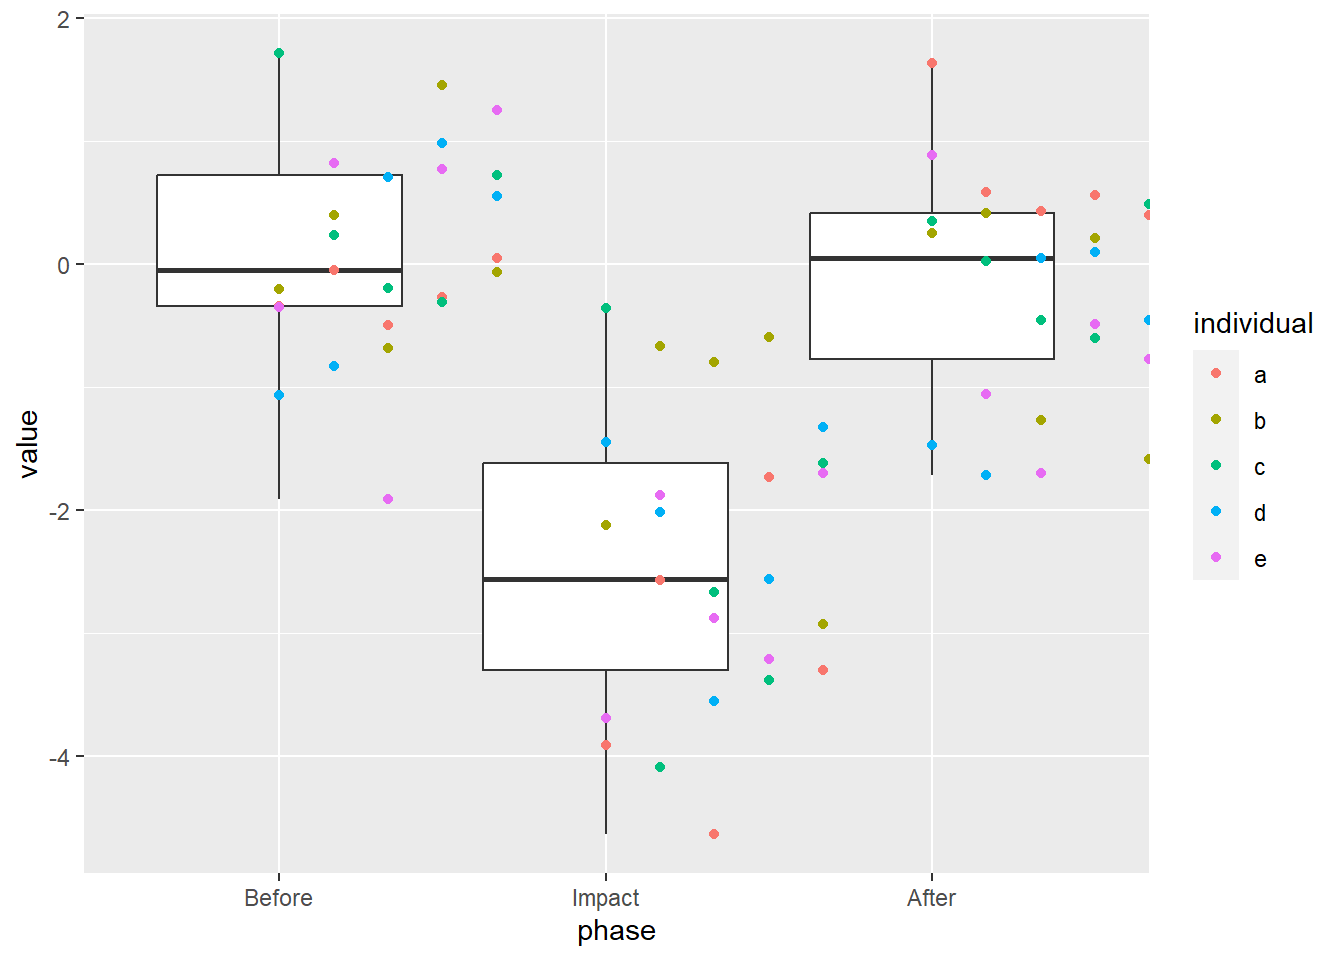
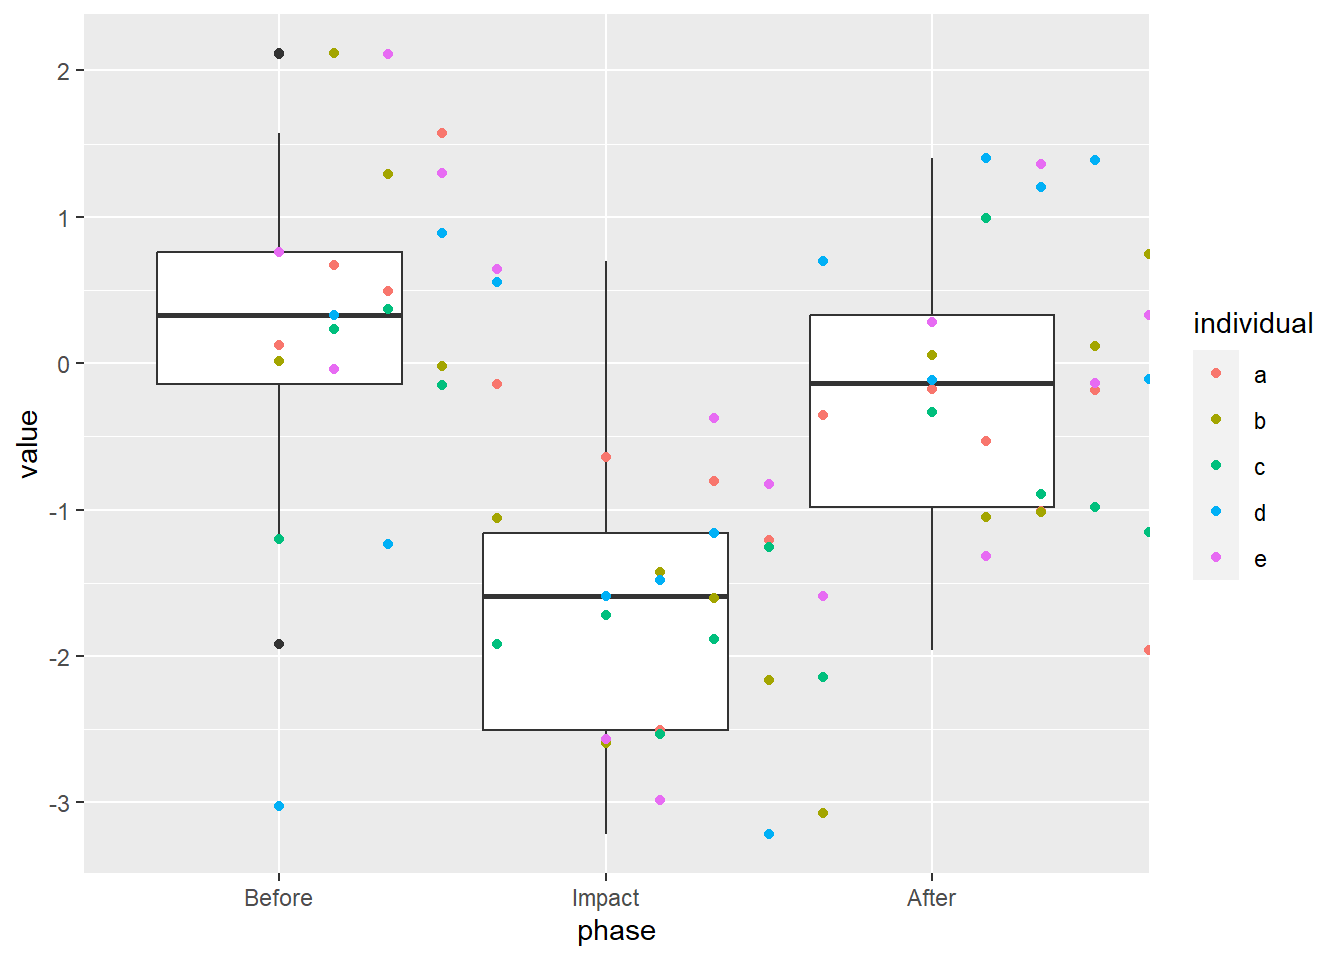
Built site for gh-pages

diff --git a/blog/2023/05_25_time_series_box_plot/index.html b/blog/2023/05_25_time_series_box_plot/index.html
@@ -271,18 +271,18 @@ Attaching package: 'dplyr'</code></pre>
 <div class="cell-output cell-output-stdout">
 <pre><code># A tibble: 75 × 4
 # Rowwise: 
-   individual time                phase    value
-   &lt;chr&gt;      &lt;dttm&gt;              &lt;ord&gt;    &lt;dbl&gt;
- 1 a          2020-02-03 12:00:00 Before -0.341 
- 2 a          2020-02-03 12:01:00 Before -0.0483
- 3 a          2020-02-03 12:02:00 Before -0.500 
- 4 a          2020-02-03 12:03:00 Before -0.273 
- 5 a          2020-02-03 12:04:00 Before  0.0460
- 6 a          2020-02-03 12:05:00 Impact -3.91  
- 7 a          2020-02-03 12:06:00 Impact -2.57  
- 8 a          2020-02-03 12:07:00 Impact -4.64  
- 9 a          2020-02-03 12:08:00 Impact -1.73  
-10 a          2020-02-03 12:09:00 Impact -3.30  
+   individual time                phase   value
+   &lt;chr&gt;      &lt;dttm&gt;              &lt;ord&gt;   &lt;dbl&gt;
+ 1 a          2020-02-03 12:00:00 Before  0.125
+ 2 a          2020-02-03 12:01:00 Before  0.670
+ 3 a          2020-02-03 12:02:00 Before  0.494
+ 4 a          2020-02-03 12:03:00 Before  1.57 
+ 5 a          2020-02-03 12:04:00 Before -0.143
+ 6 a          2020-02-03 12:05:00 Impact -0.643
+ 7 a          2020-02-03 12:06:00 Impact -2.50 
+ 8 a          2020-02-03 12:07:00 Impact -0.807
+ 9 a          2020-02-03 12:08:00 Impact -1.20 
+10 a          2020-02-03 12:09:00 Impact -0.351
 # ℹ 65 more rows</code></pre>
 </div>
 </div>
@@ -326,16 +326,16 @@ Attaching package: 'dplyr'</code></pre>
 <pre><code># A tibble: 75 × 6
    phase  time.start   time.end individual       time   value
    &lt;ord&gt;       &lt;dbl&gt;      &lt;dbl&gt; &lt;chr&gt;           &lt;dbl&gt;   &lt;dbl&gt;
- 1 Before 1580731200 1580731440 a          1580731200 -0.341 
- 2 Before 1580731200 1580731440 a          1580731260 -0.0483
- 3 Before 1580731200 1580731440 a          1580731320 -0.500 
- 4 Before 1580731200 1580731440 a          1580731380 -0.273 
- 5 Before 1580731200 1580731440 a          1580731440  0.0460
- 6 Before 1580731200 1580731440 b          1580731200 -0.205 
- 7 Before 1580731200 1580731440 b          1580731260  0.396 
- 8 Before 1580731200 1580731440 b          1580731320 -0.684 
- 9 Before 1580731200 1580731440 b          1580731380  1.45  
-10 Before 1580731200 1580731440 b          1580731440 -0.0717
+ 1 Before 1580731200 1580731440 a          1580731200  0.125 
+ 2 Before 1580731200 1580731440 a          1580731260  0.670 
+ 3 Before 1580731200 1580731440 a          1580731320  0.494 
+ 4 Before 1580731200 1580731440 a          1580731380  1.57  
+ 5 Before 1580731200 1580731440 a          1580731440 -0.143 
+ 6 Before 1580731200 1580731440 b          1580731200  0.0150
+ 7 Before 1580731200 1580731440 b          1580731260  2.12  
+ 8 Before 1580731200 1580731440 b          1580731320  1.29  
+ 9 Before 1580731200 1580731440 b          1580731380 -0.0180
+10 Before 1580731200 1580731440 b          1580731440 -1.05  
 # ℹ 65 more rows</code></pre>
 </div>
 </div>
@@ -419,7 +419,7 @@ Attaching package: 'dplyr'</code></pre>
 </div>
 </div>
 <p>The points are where they’re supposed to be, now we just have to connect them! Remember that the lines have to be nudged, too, so we need to provide the exact same arguments to <code>geom_line</code> as we did to <code>geom_point</code>.</p>
-<div class="cell">
+<div class="cell preview-image">
 <div class="sourceCode cell-code" id="cb20"><pre class="sourceCode r code-with-copy"><code class="sourceCode r"><span id="cb20-1"><a href="#cb20-1" aria-hidden="true" tabindex="-1"></a><span class="fu">ggplot</span>(<span class="at">data =</span> my_data, <span class="fu">aes</span>(<span class="at">x =</span> phase, <span class="at">y =</span> value)) <span class="sc">+</span></span>
 <span id="cb20-2"><a href="#cb20-2" aria-hidden="true" tabindex="-1"></a>  <span class="fu">geom_boxplot</span>() <span class="sc">+</span></span>
 <span id="cb20-3"><a href="#cb20-3" aria-hidden="true" tabindex="-1"></a>  <span class="fu">geom_point</span>(<span class="fu">aes</span>(<span class="at">color =</span> individual),</span>

diff --git a/blog/2023/01_23_henrico_parcels/index.html b/blog/2023/01_23_henrico_parcels/index.html
@@ -211,7 +211,7 @@ pre > code.sourceCode > span > a:first-child::before { text-decoration: underlin
 </header>
 
 <p>A recent tweet showed the age of the buildings in Groningen, Netherlands super-imposed on LiDAR data for some perspective.</p>
-<p></p><div id="tweet-79704"></div><script>tweet={"url":"https:\/\/twitter.com\/neilcfd1\/status\/1560616470148575233","author_name":"Neil Southall","author_url":"https:\/\/twitter.com\/neilcfd1","html":"\u003Cblockquote class=\"twitter-tweet\" align=\"center\"\u003E\u003Cp lang=\"en\" dir=\"ltr\"\u003EHaven&#39;t done a Building Age render for a while - here is Groningen, Netherlands\u003Cbr\u003EBuilding age data \u003Ca href=\"https:\/\/twitter.com\/INSPIRE_EU?ref_src=twsrc%5Etfw\"\u003E@INSPIRE_EU\u003C\/a\u003E \u003Ca href=\"https:\/\/twitter.com\/Het_Kadaster?ref_src=twsrc%5Etfw\"\u003E@Het_Kadaster\u003C\/a\u003E overlaid on LiDAR height data (from \u003Ca href=\"https:\/\/t.co\/Sm0VEFXOXs\"\u003Ehttps:\/\/t.co\/Sm0VEFXOXs\u003C\/a\u003E).  Rendered in \u003Ca href=\"https:\/\/twitter.com\/hashtag\/rayshader?src=hash&amp;ref_src=twsrc%5Etfw\"\u003E#rayshader\u003C\/a\u003E \u003Ca href=\"https:\/\/twitter.com\/hashtag\/rstats?src=hash&amp;ref_src=twsrc%5Etfw\"\u003E#rstats\u003C\/a\u003E \u003Ca href=\"https:\/\/t.co\/CElUxvn1W6\"\u003Epic.twitter.com\/CElUxvn1W6\u003C\/a\u003E\u003C\/p\u003E&mdash; Neil Southall (@neilcfd1) \u003Ca href=\"https:\/\/twitter.com\/neilcfd1\/status\/1560616470148575233?ref_src=twsrc%5Etfw\"\u003EAugust 19, 2022\u003C\/a\u003E\u003C\/blockquote\u003E\n\u003Cscript async src=\"https:\/\/platform.twitter.com\/widgets.js\" charset=\"utf-8\"\u003E\u003C\/script\u003E\n","width":550,"height":null,"type":"rich","cache_age":"3153600000","provider_name":"Twitter","provider_url":"https:\/\/twitter.com","version":"1.0"};document.getElementById("tweet-79704").innerHTML = tweet["html"];</script><p></p>
+<p></p><div id="tweet-43388"></div><script>tweet={"url":"https:\/\/twitter.com\/neilcfd1\/status\/1560616470148575233","author_name":"Neil Southall","author_url":"https:\/\/twitter.com\/neilcfd1","html":"\u003Cblockquote class=\"twitter-tweet\" align=\"center\"\u003E\u003Cp lang=\"en\" dir=\"ltr\"\u003EHaven&#39;t done a Building Age render for a while - here is Groningen, Netherlands\u003Cbr\u003EBuilding age data \u003Ca href=\"https:\/\/twitter.com\/INSPIRE_EU?ref_src=twsrc%5Etfw\"\u003E@INSPIRE_EU\u003C\/a\u003E \u003Ca href=\"https:\/\/twitter.com\/Het_Kadaster?ref_src=twsrc%5Etfw\"\u003E@Het_Kadaster\u003C\/a\u003E overlaid on LiDAR height data (from \u003Ca href=\"https:\/\/t.co\/Sm0VEFXOXs\"\u003Ehttps:\/\/t.co\/Sm0VEFXOXs\u003C\/a\u003E).  Rendered in \u003Ca href=\"https:\/\/twitter.com\/hashtag\/rayshader?src=hash&amp;ref_src=twsrc%5Etfw\"\u003E#rayshader\u003C\/a\u003E \u003Ca href=\"https:\/\/twitter.com\/hashtag\/rstats?src=hash&amp;ref_src=twsrc%5Etfw\"\u003E#rstats\u003C\/a\u003E \u003Ca href=\"https:\/\/t.co\/CElUxvn1W6\"\u003Epic.twitter.com\/CElUxvn1W6\u003C\/a\u003E\u003C\/p\u003E&mdash; Neil Southall (@neilcfd1) \u003Ca href=\"https:\/\/twitter.com\/neilcfd1\/status\/1560616470148575233?ref_src=twsrc%5Etfw\"\u003EAugust 19, 2022\u003C\/a\u003E\u003C\/blockquote\u003E\n\u003Cscript async src=\"https:\/\/platform.twitter.com\/widgets.js\" charset=\"utf-8\"\u003E\u003C\/script\u003E\n","width":550,"height":null,"type":"rich","cache_age":"3153600000","provider_name":"Twitter","provider_url":"https:\/\/twitter.com","version":"1.0"};document.getElementById("tweet-43388").innerHTML = tweet["html"];</script><p></p>
 <p>This got me thinking – what would Henrico look like? I’m going to take the cheap way out and not mess with LiDAR at the moment, but the county provides their <a href="https://data-henrico.opendata.arcgis.com/datasets/Henrico::tax-parcels-and-cama-data/explore">Tax Parcels and CAMA Data</a> for easy download.</p>
 <div class="callout callout-style-default callout-note callout-titled">
 <div class="callout-header d-flex align-content-center">

diff --git a/blog/index.html b/blog/index.html
@@ -190,9 +190,9 @@ ul.task-list li input[type="checkbox"] {
 
 <div class="quarto-listing quarto-listing-container-default" id="listing-listing">
 <div class="list quarto-listing-default">
-<div class="quarto-post image-right" data-index="0" data-categories="R,ggplot2,chart junk,time series" data-listing-file-modified-sort="1685053502189" data-listing-reading-time-sort="7">
+<div class="quarto-post image-right" data-index="0" data-categories="R,ggplot2,chart junk,time series" data-listing-file-modified-sort="1685056053142" data-listing-reading-time-sort="7">
 <div class="thumbnail">
-<p><a href="../blog/2023/05_25_time_series_box_plot/index.html"> <p class="card-img-top"><img src="2023\05_25_time_series_box_plot\index_files\figure-html\unnamed-chunk-2-1.png"  class="thumbnail-image card-img"/></p> </a></p>
+<p><a href="../blog/2023/05_25_time_series_box_plot/index.html"> <p class="card-img-top"><img src="2023\05_25_time_series_box_plot\index_files\figure-html\unnamed-chunk-12-1.png"  class="thumbnail-image card-img"/></p> </a></p>
 </div>
 <div class="body">
 <a href="../blog/2023/05_25_time_series_box_plot/index.html">
